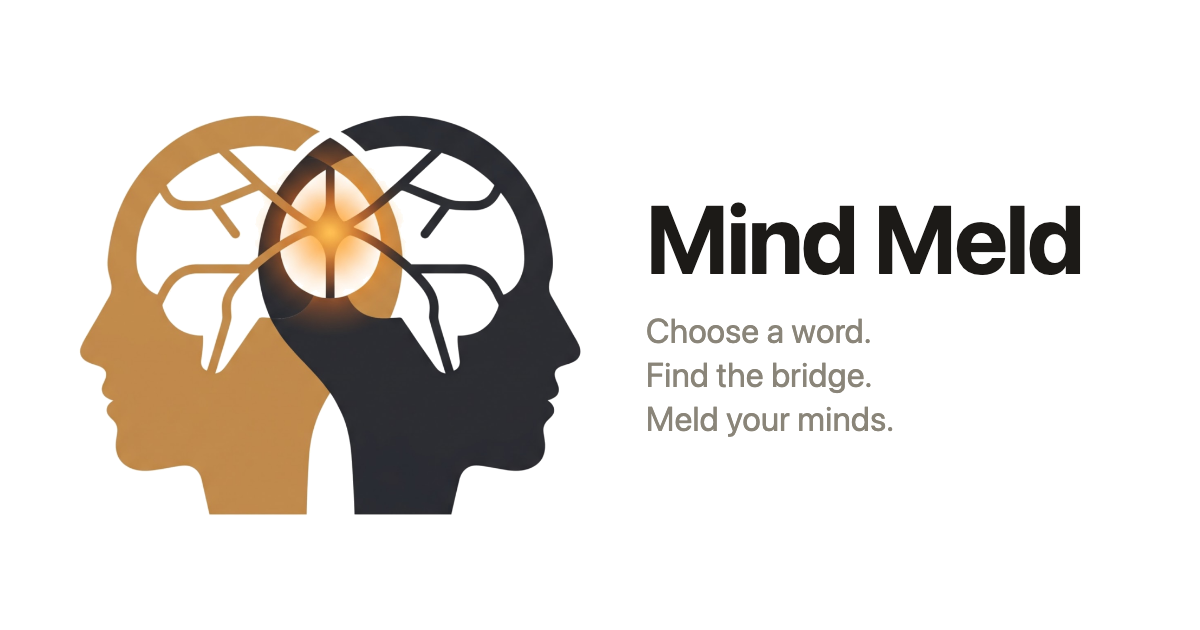
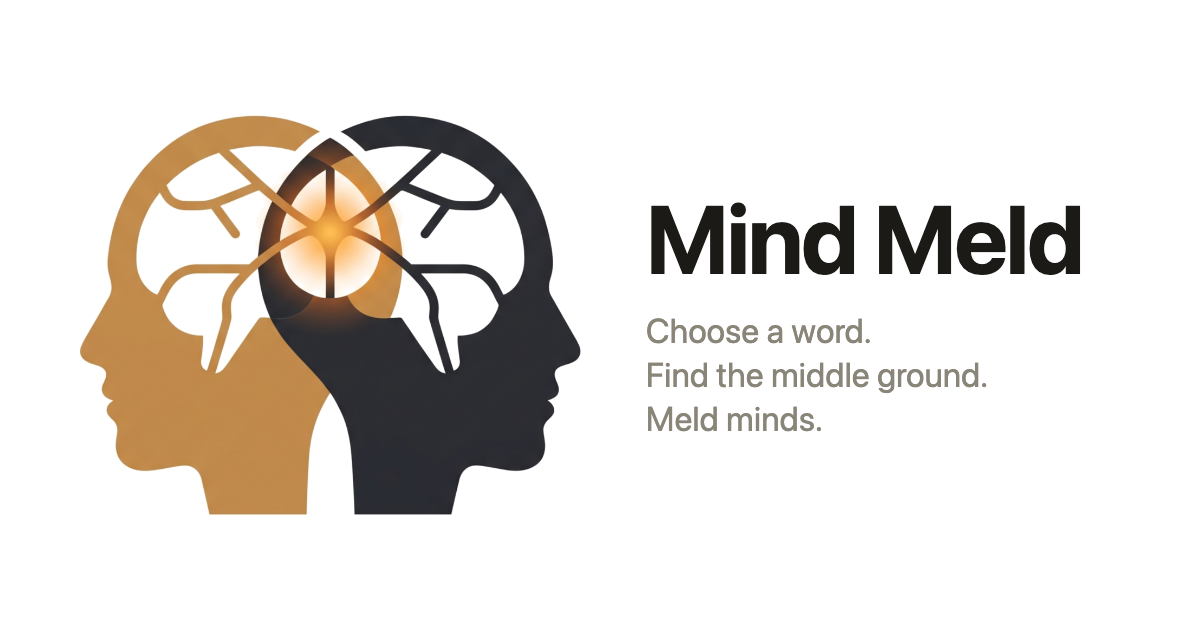
Rewrite game copy around "find the middle ground"
Replaces the tagline with "Choose a word. Find the middle ground. Meld
minds." (page, meta tags and the og.png preview card) and expands How to
play with clearer steps, a pro tip and a two-round example.

The word-entry screen now gives different guidance on round 1 ("Type
any word that comes to mind") than on later rounds ("Find the middle
ground"), and the no-match and matched screens say what to do next.

Also polishes the invite button after testing on iOS Safari: uses
Lucide's share-2 icon as an inline SVG instead of the envelope emoji,
keeps the link underline off the icon, and balances the tagline wrap.

Changed region(s): [[0.5858, 0.573, 0.8325, 0.6937]]

diff --git a/public/index.html b/public/index.html
@@ -13,7 +13,7 @@
     <meta name="title" content="Mind Meld" />
     <meta
       name="description"
-      content="Say a word. Find the bridge. Meld your minds."
+      content="Choose a word. Find the middle ground. Meld minds."
     />
     <meta name="theme-color" content="#faf8f4" />
 
@@ -21,7 +21,7 @@
     <meta property="og:title" content="Mind Meld" />
     <meta
       property="og:description"
-      content="Say a word. Find the bridge. Meld your minds."
+      content="Choose a word. Find the middle ground. Meld minds."
     />
     <meta property="og:url" content="https://mindmeld-game.com/" />
     <meta property="og:image" content="https://mindmeld-game.com/og.png" />
@@ -37,7 +37,7 @@
       <!-- HOME -->
       <section data-screen="home" class="screen">
         <h1 class="wordmark">Mind Meld</h1>
-        <p class="tagline">Choose a word. Find the bridge. Meld your minds.</p>
+        <p class="tagline">Choose a word. Find the middle ground. Meld minds.</p>
 
         <div class="invite-block">
           <p id="invite-heading" class="invite-heading"></p>
@@ -91,10 +91,36 @@
         <details class="rules">
           <summary>How to play</summary>
           <ol>
-            <li>Type a word &mdash; it stays hidden until everyone submits.</li>
-            <li>All words reveal at once. Not a match? Find a word that bridges everyone's words, then go again.</li>
-            <li>Repeat until every player says the exact same word at the same time.</li>
+            <li>
+              <strong>Submit in secret.</strong> Everyone types any word that
+              comes to mind. Words stay hidden until all players are ready.
+            </li>
+            <li>
+              <strong>Reveal the words.</strong> All words appear at the same
+              time. If everyone typed the exact same word, you've melded minds!
+            </li>
+            <li>
+              <strong>Find the middle ground.</strong> No match? Think of a
+              concept, category or association where everyone's words meet,
+              then submit again. Repeat until you all land on the same word.
+            </li>
           </ol>
+          <p class="rules-tip">
+            <strong>Pro tip:</strong> Don't try to be clever or pick obscure
+            references. Ask yourself: "What's the most obvious word everyone
+            else will think of?"
+          </p>
+          <p class="rules-example-title"><strong>Quick example</strong></p>
+          <ul class="rules-example">
+            <li>
+              Round 1: You say <em>Campfire</em>, your friend says
+              <em>Sweet</em>. No match.
+            </li>
+            <li>
+              Round 2: What obvious word connects <em>Campfire</em> and
+              <em>Sweet</em>? You both say <em>Marshmallow</em>. Mind melded!
+            </li>
+          </ul>
         </details>
       </section>
 
@@ -105,8 +131,8 @@
         <p id="copy-hint" class="hint" hidden>Copied!</p>
 
         <button id="invite-btn" class="btn btn-primary" type="button">
-          <span class="invite-icon" aria-hidden="true">&#9993;</span>
-          <span id="invite-label">Invite friends</span>
+          <!-- Lucide "share-2" icon (ISC license, lucide.dev) -->
+          <svg class="invite-icon" aria-hidden="true" viewBox="0 0 24 24" fill="none" stroke="currentColor" stroke-width="2" stroke-linecap="round" stroke-linejoin="round"><circle cx="18" cy="5" r="3" /><circle cx="6" cy="12" r="3" /><circle cx="18" cy="19" r="3" /><line x1="8.59" x2="15.42" y1="13.51" y2="17.49" /><line x1="15.41" x2="8.59" y1="6.51" y2="10.49" /></svg><span id="invite-label">Invite friends</span>
         </button>
         <p id="invite-hint" class="hint" aria-live="polite"></p>
 
@@ -121,7 +147,10 @@
       <!-- COLLECTING -->
       <section data-screen="collecting" class="screen">
         <p class="eyebrow" id="round-label">Round 1</p>
-        <h2>Type a word that brings us closer to melded minds!</h2>
+        <h2 id="round-prompt">Type any word that comes to mind</h2>
+        <p id="round-hint" class="hint">
+          Words stay hidden until everyone submits.
+        </p>
 
         <div id="history-wrap" class="history-wrap" hidden>
           <table class="history-table">
@@ -151,7 +180,8 @@
       <!-- REVEALED (no match yet) -->
       <section data-screen="revealed" class="screen">
         <p class="eyebrow" id="revealed-round-label">Round 1</p>
-        <h2>Not a match &mdash; yet</h2>
+        <h2>No match yet</h2>
+        <p class="hint">Look for the middle ground between these words.</p>
         <ul id="reveal-grid" class="reveal-grid"></ul>
         <button id="next-round" class="btn btn-primary" type="button">
           Next round
@@ -160,7 +190,7 @@
 
       <!-- MATCHED -->
       <section data-screen="matched" class="screen">
-        <p class="eyebrow">Mind melded</p>
+        <p class="eyebrow">You melded minds!</p>
         <h2 id="matched-word" class="matched-word">Matched word</h2>
         <ol id="path-list" class="path-list"></ol>
         <button id="play-again" class="btn btn-primary" type="button">

diff --git a/src/client.ts b/src/client.ts
@@ -125,6 +125,8 @@ const lobbyStatus = el<HTMLParagraphElement>("lobby-status");
 const startGameBtn = el<HTMLButtonElement>("start-game");
 
 const roundLabel = el<HTMLParagraphElement>("round-label");
+const roundPrompt = el<HTMLHeadingElement>("round-prompt");
+const roundHint = el<HTMLParagraphElement>("round-hint");
 const wordForm = el<HTMLFormElement>("word-form");
 const wordInput = el<HTMLInputElement>("word-input");
 const wordError = el<HTMLParagraphElement>("word-error");
@@ -207,6 +209,14 @@ function render() {
 
   if (state.screen === "collecting") {
     roundLabel.textContent = `Round ${state.round}`;
+    // Round 1 is a free pick; every later round is about converging.
+    const firstRound = state.path.length === 0;
+    roundPrompt.textContent = firstRound
+      ? "Type any word that comes to mind"
+      : "Find the middle ground";
+    roundHint.textContent = firstRound
+      ? "Words stay hidden until everyone submits."
+      : "What's the most obvious word that connects these?";
     wordInput.disabled = state.submitted;
     (wordForm.querySelector("button") as HTMLButtonElement).disabled =
       state.submitted;

diff --git a/src/styles.css b/src/styles.css
@@ -57,6 +57,7 @@ h3 {
 }
 
 .tagline {
+  text-wrap: balance;
   color: var(--muted);
   margin: -0.75rem 0 0;
   font-size: 1.05rem;
@@ -335,7 +336,10 @@ h3 {
 }
 
 .invite-icon {
-  margin-right: 0.4rem;
+  width: 1.1em;
+  height: 1.1em;
+  margin-right: 0.45rem;
+  vertical-align: -0.2em;
 }
 
 .btn-link {
@@ -358,4 +362,18 @@ h3 {
 
 #invite-hint:empty {
   display: none;
+}
+
+.rules li + li {
+  margin-top: 0.4rem;
+}
+
+.rules-tip,
+.rules-example-title {
+  margin: 0.75rem 0 0;
+}
+
+.rules-example {
+  padding-left: 1.25rem;
+  margin: 0.4rem 0 0;
 }
